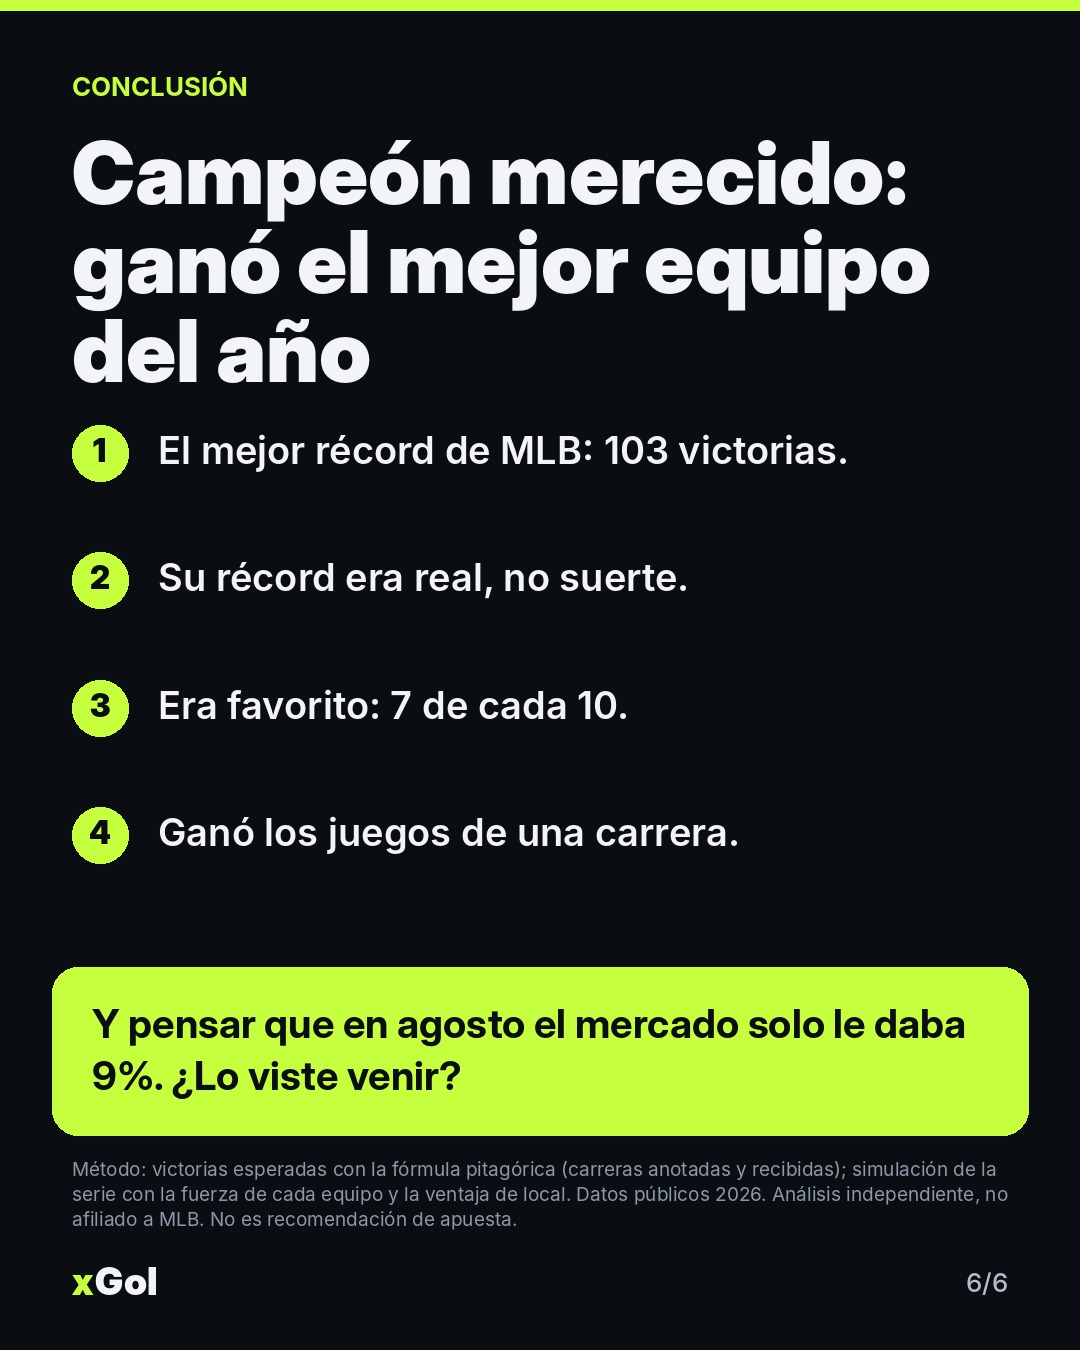
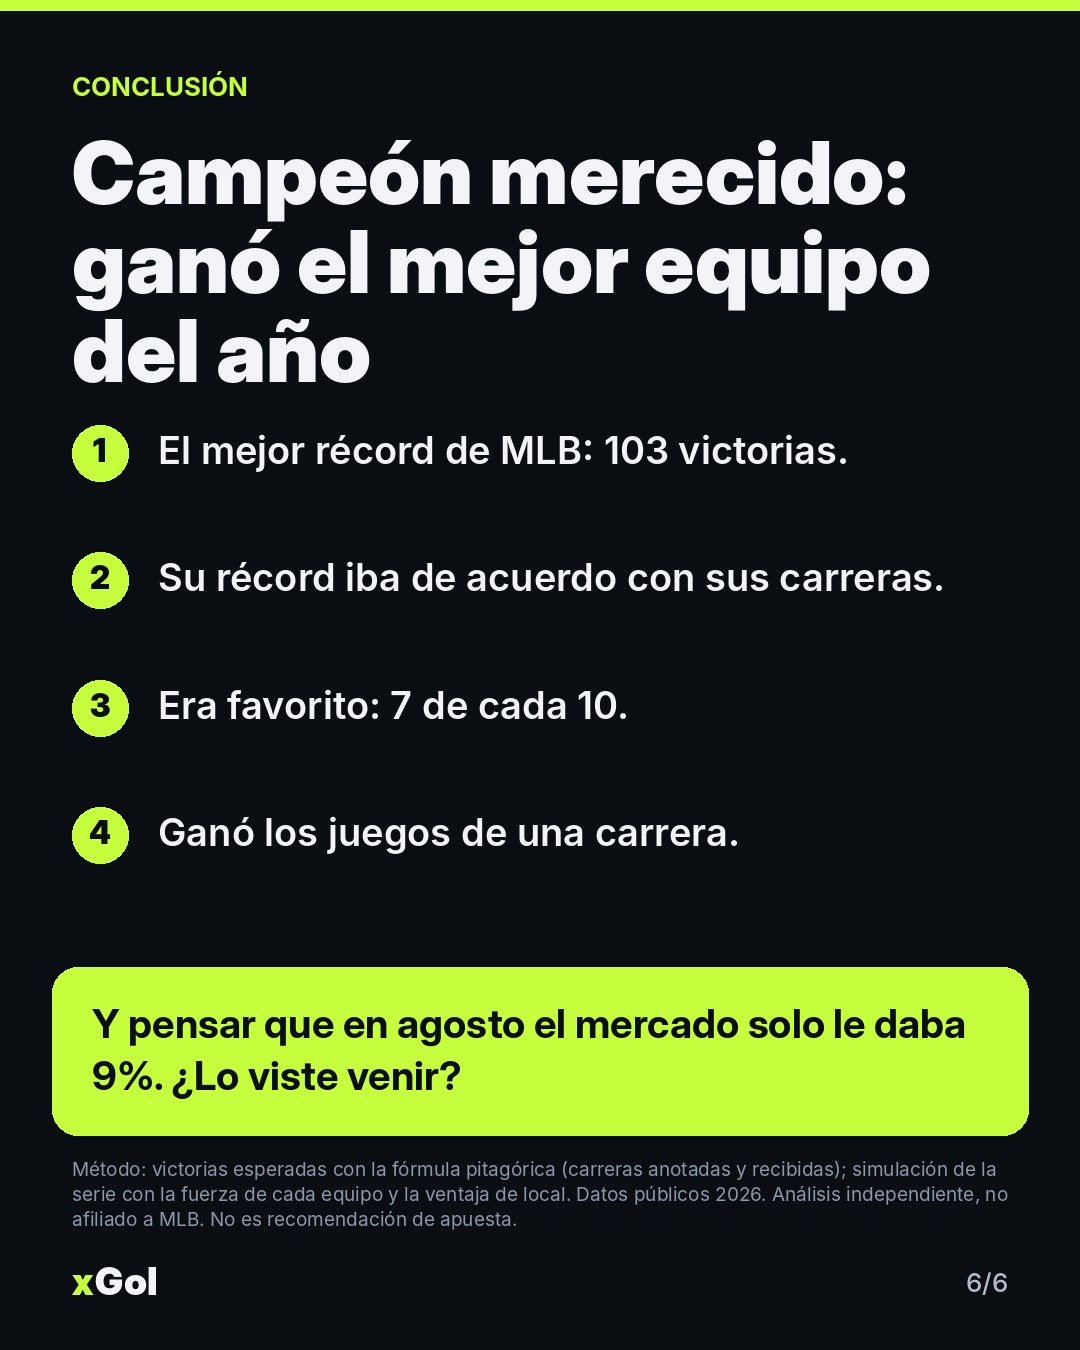
Recalibra NBA (prior 0.9, λ16), corrige fraseos y actualiza posts del 29 oct
Claude-Session: https://claude.ai/code/session_019jYWtjRCYpKgaXN9DnQXEh

Changed region(s): [[0.3056, 0.4044, 0.8556, 0.4356]]

diff --git a/studio/posts_v7_1029.py b/studio/posts_v7_1029.py
@@ -5,7 +5,7 @@ from layout_v7 import *
 
 N = json.load(open(os.environ["NBA_JSON"]))
 OUT = os.environ.get("XGOL_OUT", "/tmp/xgol-out/v7")
-NBA_M = ("Método: nivel de cada equipo ajustado por la calidad de sus rivales (marcadores 2025-26 y 2026-27), localía y cansancio "
+NBA_M = ("Método: nivel de cada equipo ajustado por la calidad de sus rivales (parte de 90% del nivel 2025-26, recalibrado el 29 oct), localía y cansancio "
          "(−2.1 pts por jugar dos noches seguidas). Probado en 1,090 partidos: acertó 69%. Pruebas con la temporada 2025-26. Datos: BALLDONTLIE, "
          "Basketball-Reference, ESPN; mercado de predicción público. Análisis independiente, no afiliado a la NBA. No es recomendación de apuesta.")
 SUB_NBA = "Hipótesis puestas a prueba con la temporada NBA 2025-26. Si «p» es menor a 0.05, casi seguro no es casualidad."
@@ -25,7 +25,7 @@ def A():
               [Text("Con las carreras que anotas y las que recibes se calcula cuántos partidos «deberías» ganar:", 30, MUTED),
                Table(("Debía ganar", "Ganó"), [("Milwaukee", "102.5", "103"), ("Tampa Bay", "90.2", "98")], colors=[GHOST, ACC]),
                Stats([("+0.5", "Milwaukee: justo lo esperado", ACC), ("+7.8", "Tampa Bay: victorias de más", NEG)])],
-              takeaway="Milwaukee ganó justo lo esperado (103 vs. 102.5). Tampa Bay ganó 8 de más: suele ser suerte en juegos cerrados.", tag="DATO 2 DE 4"),
+              takeaway="Milwaukee ganó justo lo esperado (103 vs. 102.5). Tampa Bay ganó 8 de más, algo que suele venir de ganar juegos cerrados (aunque con una temporada no se puede probar que fue suerte).", tag="DATO 2 DE 4"),
         slide(4, T, "Antes de empezar la final", "Ya eran favoritos antes del primer juego",
               [Hero("7 de 10", "veces ganaba Milwaukee la Serie, según nuestro modelo (68%). El mercado le daba 62%."),
                Stats([("68%", "nuestro modelo", ACC), ("62%", "el mercado", GHOST)])],
@@ -35,7 +35,7 @@ def A():
                Stats([("3 de 5", "juegos se definieron por una sola carrera", AMBER), ("2 de 3", "de esos los ganó Milwaukee", ACC)])],
               takeaway="Carreras de Milwaukee en cada juego. Ganó el 1, 2, 3 y 5; perdió el 4 por una carrera en 12 entradas.", tag="DATO 4 DE 4"),
         slide(6, T, "Conclusión", "Campeón merecido: ganó el mejor equipo del año",
-              [Bullets(["El mejor récord de MLB: 103 victorias.", "Su récord era real, no suerte.", "Era favorito: 7 de cada 10.", "Ganó los juegos de una carrera."])],
+              [Bullets(["El mejor récord de MLB: 103 victorias.", "Su récord iba de acuerdo con sus carreras.", "Era favorito: 7 de cada 10.", "Ganó los juegos de una carrera."])],
               takeaway="Y pensar que en agosto el mercado solo le daba 9%. ¿Lo viste venir?", style="end",
               method="Método: victorias esperadas con la fórmula pitagórica (carreras anotadas y recibidas); simulación de la serie con la fuerza de cada equipo y la ventaja de local. Datos públicos 2026. Análisis independiente, no afiliado a MLB. No es recomendación de apuesta."),
     ]
@@ -68,7 +68,7 @@ def B():
                       (False, "«Con frío se anota menos»", "670 partidos a 7 °C o menos: igual a lo esperado.", "p = 0.62"),
                       (True, "«Green Bay no sabe correr»", "137 acarreos en 2026: es real, no mala suerte.", "p = 0.006")])]),
         slide(7, T, "Conclusión", "Olvida la racha: el partido se decide corriendo",
-              [Bullets(["Las rachas de pocos puntos no predicen nada: 392 casos.", "Lo real: el peor ataque por tierra contra una defensa que deja correr.", "Nuestro modelo: Green Bay gana 56 de cada 100."])],
+              [Bullets(["Las rachas de pocos puntos no predicen nada: 392 casos.", "Lo real: el peor ataque por tierra; enfrente, una defensa que hasta ahora deja correr.", "Nuestro modelo: Green Bay gana 56 de cada 100."])],
               takeaway="¿Sabías que las rachas no significan nada? Te leemos.", style="end",
               method="Método: partidos de temporada regular NFL 2010–2025 comparando puntos reales con la expectativa del mercado; prueba t del ataque terrestre de Green Bay (2026); probabilidad con puntos esperados por jugada (EPA) + localía. Datos: nflverse (CC-BY 4.0). Análisis independiente, no afiliado a la NFL. No es recomendación de apuesta."),
     ]
@@ -91,7 +91,7 @@ def C():
         slide(4, T, "¿Un 4-0 dice algo?", "Un arranque fuerte dice algo… pero poco",
               [Hero("3 de 10", "puntos de ventaja de los primeros partidos se mantienen el resto de la temporada (30 equipos, 2025-26).", AMBER),
                Rank([("Portland", c["rank_h"], ACC), ("Memphis", c["rank_a"], NEG)])],
-              takeaway="Memphis gana por 9.8 con Ty Jerome (29.8 pts) y el novato Cam Boozer, pero contra rivales débiles. Ajustado, está a media tabla.", tag="DATO 3 DE 4"),
+              takeaway="Memphis gana por 9.8 con Ty Jerome (29.8 pts) y el novato Cam Boozer, pero contra rivales débiles. Ajustado por rivales, está en la mitad baja de la liga.", tag="DATO 3 DE 4"),
         slide(5, T, "¿Cómo será el partido?", "Ritmo lento, pero puntos normales",
               [Stats([("22°", "Memphis en ritmo de juego (de 30)", GHOST), ("20°", "Portland en ritmo", GHOST), (f"{c['total']:.0f}", f"puntos proyectados (liga: {N['league_total']:.0f})", ACC)]),
                MvM("Portland gana", c["p_home"] / 100, c["mkt"] / 100)],
@@ -102,7 +102,7 @@ def C():
                       (True, "«Ajustar por la calidad de los rivales ayuda»", "Con el ajuste, la relación con el resto de la temporada sube de 0.42 a 0.51.", "correlación 0.51 · p = 0.004"),
                       (False, "«Llegar con más días de descanso da ventaja»", "Un día extra no cambia nada. Solo pesa jugar dos noches seguidas.", "850 partidos · p = 0.74")])]),
         slide(7, T, "Conclusión", "El 4-0 de Memphis vale menos de lo que parece",
-              [Bullets(["Morant: menos carga y más eficiencia en un Portland que gana.", "Los arranques fuertes engañan: solo 3 de cada 10 puntos se mantienen.", f"Portland gana {c['freq']} veces; partido pausado, unos {c['total']:.0f} puntos."])],
+              [Bullets(["Morant: menos carga y más eficiencia en un Portland que gana.", "Los arranques fuertes exageran: solo 3 de cada 10 puntos de ventaja se mantienen.", f"Portland gana {c['freq']} veces; partido pausado, unos {c['total']:.0f} puntos."])],
               takeaway="¿Quién ganó el cambio? Te leemos.", style="end", method=NBA_M),
     ]
 
@@ -122,16 +122,16 @@ def E():
         slide(4, T, "El estilo de Cleveland", "Cleveland anota… y también recibe",
               [VBars([(l, v, None) for l, v in e["cle_totals"]], 270)],
               takeaway=f"Puntos totales en cada partido de Cleveland. Anota {e['cle_pf']:.0f} y recibe {e['cle_pa']:.0f}: sus partidos casi nunca son lentos.", tag="DATO 3 DE 4"),
-        slide(5, T, "La predicción", "Atlanta, favorito en un partido de muchos puntos",
+        slide(5, T, "La predicción", "Atlanta, ligero favorito en un partido de muchos puntos",
               [MvM("Atlanta gana", e["p_home"] / 100, e["mkt"] / 100), Rank([("Atlanta", e["rank_h"], ACC), ("Cleveland", e["rank_a"], GHOST)])],
-              takeaway="Nosotros vemos más fuerte a Atlanta por cómo juega esta temporada; el mercado pesa más al Cleveland del año pasado.", tag="DATO 4 DE 4"),
+              takeaway="Nosotros y el mercado lo vemos casi parejo; Atlanta tiene una ligera ventaja por jugar en casa y por cómo juega esta temporada.", tag="DATO 4 DE 4"),
         slide(6, T, "Lo que probamos", "Lo que se sostiene y lo que es mito",
               [Text(SUB_NBA, 27, MUTED),
                Tests([(True, "«Si proyectamos muchos puntos, hay muchos puntos»", "Los partidos que proyectamos más altos promediaron 239; los más bajos, 222.", "379 partidos · correlación 0.31 · p < 0.001"),
                       (False, "«Si los dos jugaron anoche, se anota menos»", "Unos 2 puntos menos, pero puede ser casualidad.", "70 partidos · p = 0.36"),
                       (True, "«Jugar dos noches seguidas afecta quién gana»", "El equipo cansado rinde 2.1 puntos menos. Hoy les pasa a los dos: se compensa.", "1,237 partidos · p = 0.011")])]),
         slide(7, T, "Conclusión", "Prepárate para muchos puntos en Atlanta",
-              [Bullets([f"Unos {e['total']:.0f} puntos proyectados, lo más alto del jueves.", "Atlanta corre y tira de tres; Jalen Johnson lo mueve todo.", f"Atlanta gana {e['freq']} veces para nosotros."])],
+              [Bullets([f"Unos {e['total']:.0f} puntos proyectados, lo más alto del jueves.", "Atlanta corre y tira de tres; Jalen Johnson lo mueve todo.", f"Ganador casi parejo: Atlanta {e['p_home']}% para nosotros."])],
               takeaway="¿Partido de 240 puntos? Te leemos.", style="end", method=NBA_M),
     ]
 
@@ -160,10 +160,10 @@ def F_():
         slide(6, T, "Lo que probamos", "Lo que se sostiene y lo que es mito",
               [Text(SUB_NBA, 27, MUTED),
                Tests([(True, "«Las palizas del arranque exageran»", "De cada 10 puntos de diferencia temprana se mantienen unos 3: el −17.8 de Sacramento vale como un −5.", "30 equipos · p = 0.03"),
-                      (True, "«Un mal arranque no condena la temporada»", "Los que arrancaron 1-3 o peor ganaron 42% del resto (los buenos arranques, 55%).", "11 y 9 equipos · indicio"),
+                      (True, "«Un mal arranque dice algo, pero no todo»", "Los que arrancaron 1-3 o peor ganaron 42% del resto; los de buen arranque, 55%. La diferencia existe, pero no es enorme.", "11 y 9 equipos · indicio"),
                       (True, "«Jugar dos noches seguidas cuesta»", "Unos 2 puntos menos. Hoy le toca a Nueva Orleans.", "1,237 partidos · p = 0.011")])]),
-        slide(7, T, "Conclusión", "Ninguno de los dos es tan malo como su 0-4",
-              [Bullets(["Sacramento: grandes números individuales, pero la defensa no da.", "Las palizas del arranque exageran.", f"Nueva Orleans gana {f['freq']} veces para nosotros."])],
+        slide(7, T, "Conclusión", "Las palizas exageran, pero Sacramento sigue abajo",
+              [Bullets(["Sacramento: grandes números individuales, pero recibe 126 puntos por partido.", "Las palizas del arranque exageran, pero Sacramento sigue siendo el peor de nuestro ranking.", f"Nueva Orleans gana {f['freq']} veces para nosotros."])],
               takeaway="¿Quién se quita el cero? Te leemos.", style="end", method=NBA_M),
     ]
 

diff --git a/studio/posts_v7_1029_futbol.py b/studio/posts_v7_1029_futbol.py
@@ -11,7 +11,7 @@ def G():
     return [
         slide(1, T, "Futbol · Serie A (Italia) · Jueves 29 de octubre", "Fiorentina vs. Atalanta: la defensa más goleada de Italia contra el equipo de los partidos locos",
               [Matchup("Fiorentina", "18°", "Atalanta", "11°", sep="local · jueves 29 oct · 13:45 hora CDMX · visita")],
-              takeaway="Sus partidos promedian 3.5 goles. ¿Lluvia de goles en Florencia? 4 datos.", style="cover", title_size=80),
+              takeaway="Los partidos de los dos promedian 3.5 goles esta temporada. ¿Lluvia de goles en Florencia? 4 datos.", style="cover", title_size=80),
         slide(2, T, "El cambio de estilo de Atalanta", "Atalanta cambió de estilo… y sus partidos se volvieron locos",
               [Hero("3.6", "goles por partido en los juegos de Atalanta esta temporada.", ACC),
                Stats([("2.3", "goles por partido en sus juegos de 2025-26", GHOST), ("15", "goles recibidos en 8 partidos", NEG)])],

diff --git a/docs/PLAYBOOK.md b/docs/PLAYBOOK.md
@@ -86,6 +86,11 @@ Pablo quiere **más análisis estadístico, más técnico, más datos** en cada 
 
 **Limitación actual:** la sesión de Claude solo tiene salida a GitHub y registros de paquetes. Las APIs que no estén en GitHub deben consultarse desde GitHub Actions (pendiente de montar). Mientras tanto, las opciones diarias se basan sobre todo en NFL.
 
+## Aprendizajes
+- 29 oct: no publicar resultados ese día (Pablo). Las dos fallas del 28 (OKC sin 4 titulares, LAL sin Dončić) fueron por bajas → pendiente agregar ajuste por lesiones.
+- 29 oct: recalibración NBA con los 65 partidos de 2026-27: partir de 90% del nivel 2025-26 (antes 60%) y ridge λ=16 (antes 8). Brier 0.232 → 0.220; P(mejora) = 97.5% por bootstrap. Revisar cada semana.
+- Revisar fraseos contra los datos antes de publicar: no afirmar "suerte" sin prueba significativa, no contradecir un slide con otro (p. ej. "peor equipo" vs. "no tan malo"), no atribuir motivos al mercado como hechos ("una posible razón").
+
 ## Modelo NBA v1
 - Ataque y defensa por equipo con regresión ridge sobre cada marcador; prior = 60% del nivel de la temporada pasada; σ ≈ 14.7.
 - Backtest 2025-26 (1,090 partidos, fuera de muestra): 69% aciertos, Brier 0.205 vs 0.248; calibrado.
